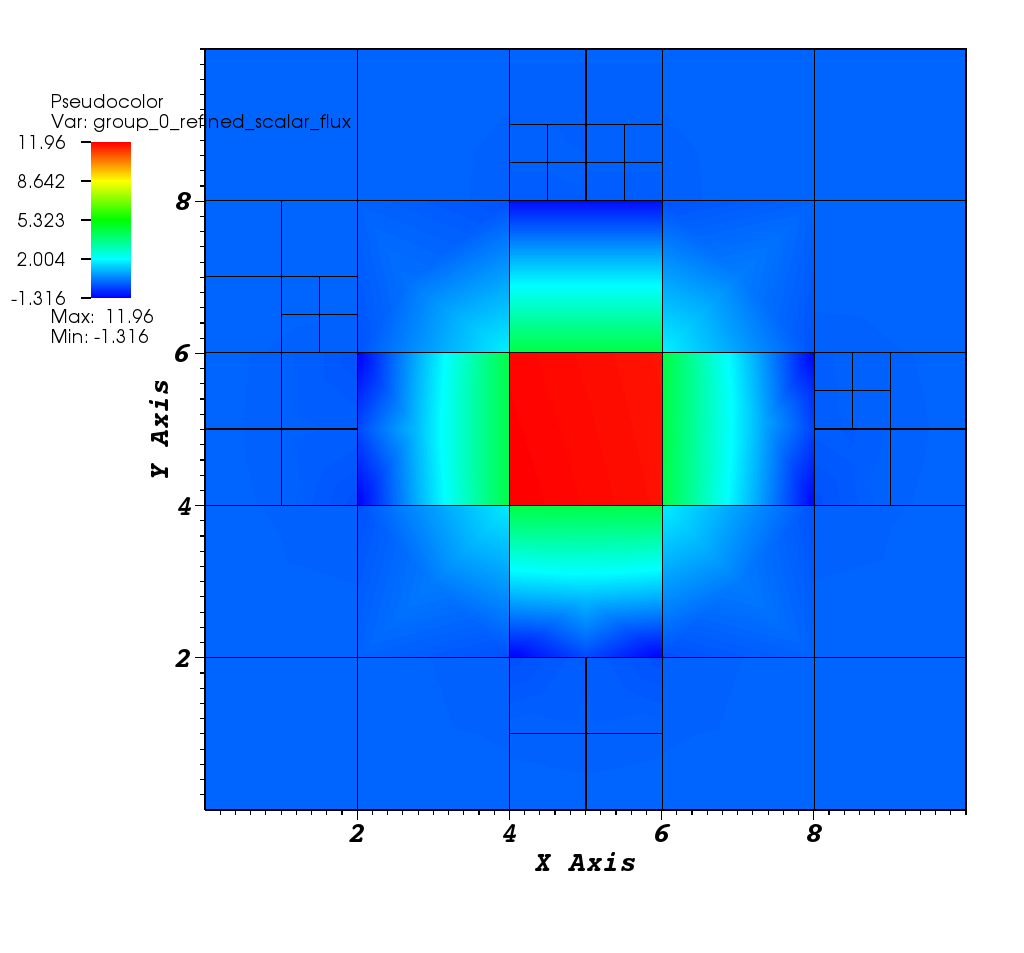
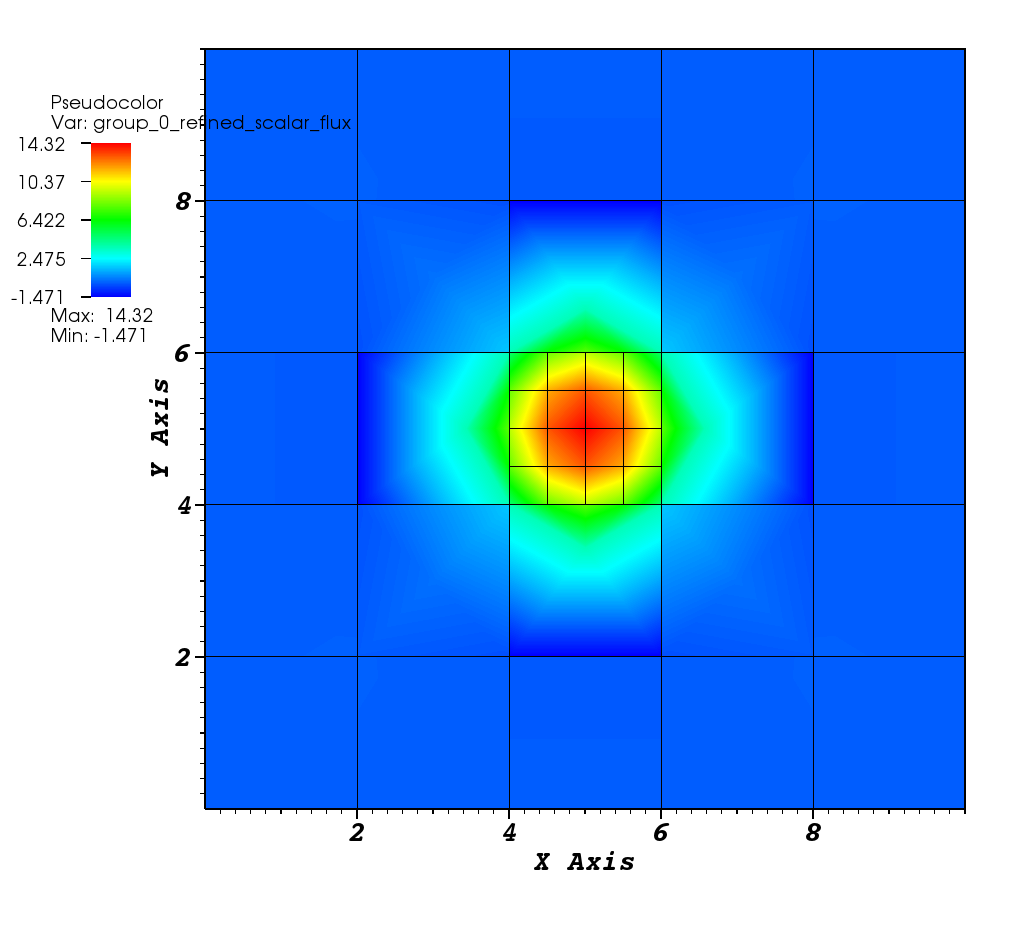
Improved result for amr.

diff --git a/results.tex b/results.tex
@@ -43,7 +43,7 @@ square of 2cm side (red region). In the blue region, we have
 $\Sigma_t=2cm^{-1}$ and $\Sigma_s=1cm^{-1}$. In the red region, we have
 $\Sigma_t=1cm^{-1}$, $\Sigma_s=0.8cm^{-1}$, and a source of intensity $10
 n/cm^{2}$. We use vacuum boundaries. The domain is initially discretize using
-an uniform mesh of five by five cells. This mesh is then refined three
+an uniform mesh of five by five cells. This mesh is then refined two
 times. For each refinement, the cells with an estimated error of 70\% or more
 of the largest estimated error are refined. \Cref{diffusion_amr} shows the
 results.
@@ -53,5 +53,4 @@ results.
   \caption{Solution of the AMR problem.}
   \label{diffusion_amr}
 \end{figure}
-\red{Je ne sais pas pourquoi ce ne sont pas pourquoi le raffinement est si
-mauvais. Il y a surement un bug.}
+\red{Pour l'instant on ne peut faire que 2 raffinements avec le code.}

diff --git a/amr.tex b/amr.tex
@@ -7,9 +7,11 @@ part of the domain (e.g. boundary layers) and a smooth solution on the rest of
 the domain. AMR allows to create automatically a mesh very fined where the
 solution varies quickly while keeping the rest of the mesh coarse. AMR requires 
 an \emph{a posteriori} error indicator to decide which cells should be refined. 
-In this work, the error indicator on element $K$ is given by \cite{Wang2010a}:
+In this work, the error indicator on element $K$ is a simplified version of
+the one found in \cite{Wang2010a}:
 \begin{equation}
-  \eta_K = \frac{\int_{\partial K} \ldb\phi_K\rdb^2}{\|\Phi_K\|_2^2},
+%  \eta_K = \frac{\int_{\partial K} \ldb\phi_K\rdb^2}{\|\Phi_K\|_2^2},
+  \eta_K = \frac{\int_{\partial K} \ldb\phi_K\rdb^2}{Area\ of\ K},
   \label{error_indic}
 \end{equation}  
 This error indicator is based on the jump of the scalar flux between
